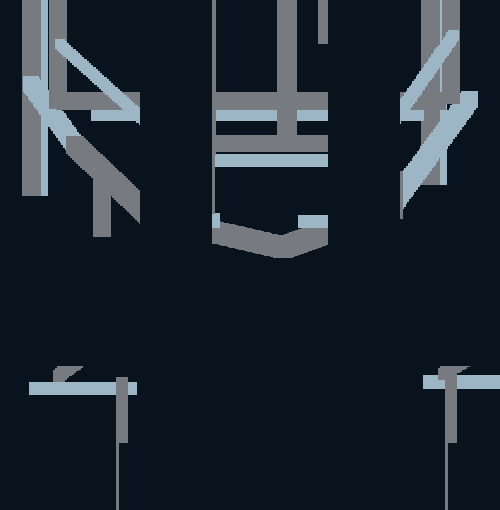
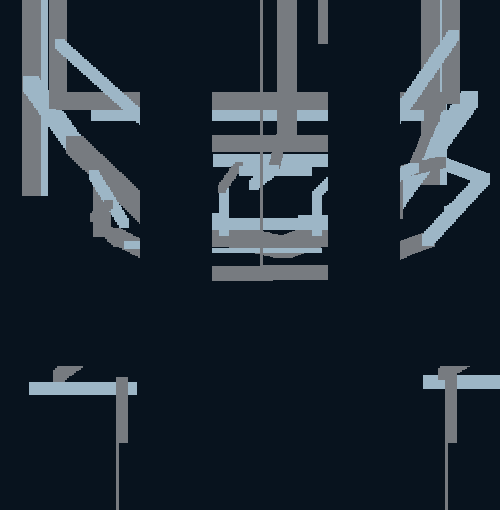
art(industrial-hazard): restore Moraine-14 hoisted-hull legibility (R2 Art P1)

diff --git a/cybersand-canvases/2048x1024/original-industrial-hazard-wide-moraine-fourteen-suspended-solvent-drydock-261121/README.md b/cybersand-canvases/2048x1024/original-industrial-hazard-wide-moraine-fourteen-suspended-solvent-drydock-261121/README.md
@@ -4,6 +4,10 @@
 
 **Design thesis:** An overhead, boundary-rooted industrial gantry loads an inverted suspended salvage hull above a deliberately open drydock basin. Unequal ground-rooted workfaces, overhead drops, two solvent columns, sealed quench samples, lower salvage annexes and a distinct outbound gasometer make a new industrial *support and altitude grammar*, rather than another line of furnished compartments. Side elevation is orthographic, without perspective floor tops. Nothing here reuses a source/reference image or geometry from an earlier map.
 
+## R2 independent Art P1 repair (21 November 2026)
+
+The central drydock hoist now lifts a recognizable tapered, damaged ship-hull profile rather than an ambiguous small keel cradle. The new physically attached load pickup, asymmetric broken stern and pointed bow, visible ribs, and entered inspection hold are authored as actual inert material cells. Existing main, high, and low flight routes, six wells, open drydock bay and isolated fluids remain intact. This is a static design repair, **not** a simulated hoisting mechanism or native playtest. Reproduced setup, gallery, receipt and hashes below correspond to R2 and require fresh independent Art/Tech/Shepherd review.
+
 ## Functional districts and actual flight sites
 
 1. **Incoming reagent / weighbridge** — dry arrival, receiving hopper, inspection and lower recovery.
@@ -19,15 +23,15 @@ There are **18 literal named checkpoints** and six access wells connecting a hig
 | Measure | Exact creator result |
 |---|---:|
 | Source extent | 2048 × 1024 = **2,097,152 final material IDs** |
-| Setup-v2 ordered, nonoverlapping rectangles | **1,786** |
-| Exact Setup JSON bytes | **35,093** |
[2 lines of base64/hex data omitted]
-| Boundary-rooted inert structural cells | **961,502 / 961,502**, zero detached |
+| Setup-v2 ordered, nonoverlapping rectangles | **2051** |
+| Exact Setup JSON bytes | **40162** |
[2 lines of base64/hex data omitted]
+| Boundary-rooted inert structural cells | **969170 / 969170**, zero detached |
 | Initially sealed Water/Lava cells | **12,338**, zero cardinal air/mixed-fluid contacts |
 | Exact checkpoint clearance/reachability | **18/18** with **19×15, 23×19, 31×27** masks |
 | Real obstruction | `[845,607,65,92]` |
-| Obstruction recovery | **18/18** retained; nine 31×27 forced detours, **+70** centre steps each |
+| Obstruction recovery | **18/18** retained; ten forced 31×27 detours, **+30 to +70** centre steps |
 | PNG gallery | One genuine full-grid indexed-material overview + six genuine native-resolution 1:1 crops |
 
 Deterministic fixed seed: `2026112106`. Reproduction: run `node build.cjs --write` inside this folder; `node build.cjs --verify` byte-compares source-generated Setup, receipt and PNGs against committed bytes. `receipt.json` contains source-grid/Setup/PNG SHA256, per-material histogram, used/written cell counts, exhaustive ordered replay identity, literal site list, BFS clearance and obstruction receipts. Images are **indexed original material IDs**, not AI illustrations or claimed native screenshots.
